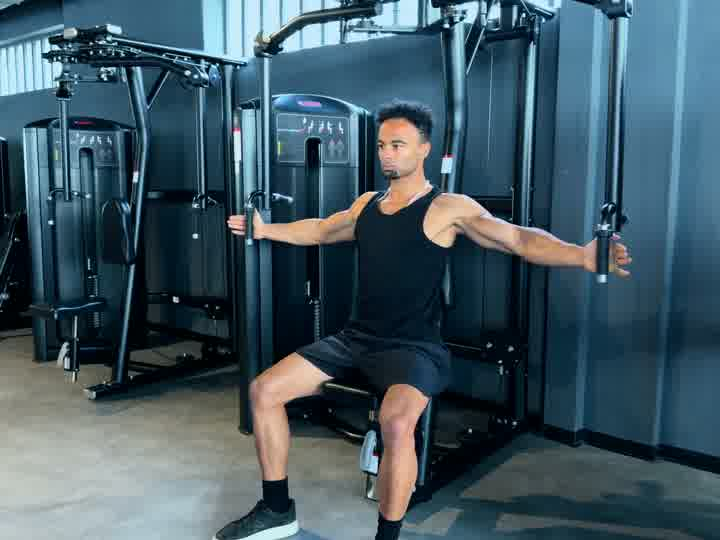
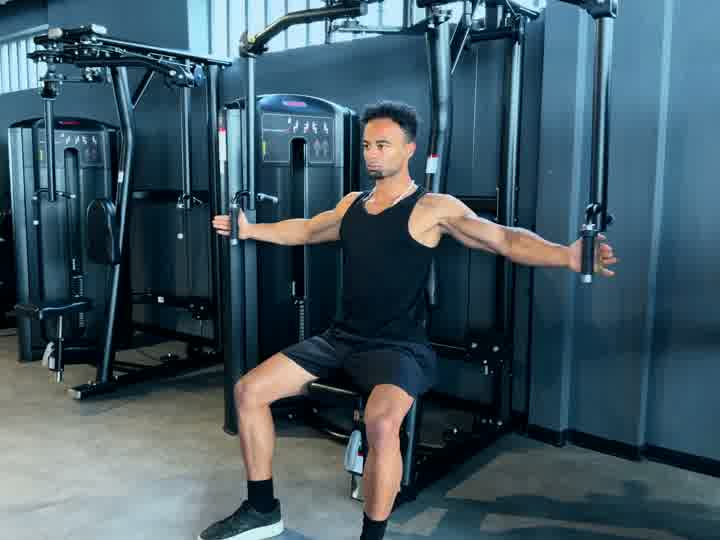
Ship batch 2: multi-view player UX + 60+ new exercise videos
- ExerciseDetail.tsx: PiP swap thumbnail (112×84 desktop, 88×66 mobile)
  in bottom-left of demo, swaps with main video on tap with cross-fade.
  Reuses existing videoRef pattern; new pipVideoRef for the alt clip.
- ExerciseDetail.css: .ed-demo-pip styles (border, hover scale, accent
  border on hover, FRONT/SIDE label badge).
- thumbnails.ts: publicVideoUrlAlt() helper, mirrors gating logic.
- exercises.ts type: videoUrlAlt?: string.
- scripts/sync-video-urls.mjs: separates _side_view.mp4 R2 keys into
  altSlugByBase, populates videoUrlAlt on the matching base exercise,
  reports orphan-alts.
- sync-from-excel.py: forwards videoUrlAlt into public/exercises.json.

61 new thumbnails synced into public/images/thumbnails/exercises/.

diff --git a/react-app/src/pages/ExerciseDetail.tsx b/react-app/src/pages/ExerciseDetail.tsx
@@ -2,7 +2,7 @@ import { useEffect, useRef, useState, useMemo } from 'react';
 import { Link, useParams } from 'react-router-dom';
 import { useTranslation } from 'react-i18next';
 import { getExercises, type Exercise } from '../data/exercises';
-import { exerciseThumb, publicVideoUrl } from '../utils/thumbnails';
+import { exerciseThumb, publicVideoUrl, publicVideoUrlAlt } from '../utils/thumbnails';
 import { Target, Dumbbell, Zap, Volume2, VolumeX, ICON_STROKE } from '../utils/icons';
 import { MuscleTile } from '../components/MuscleTile';
 import SiteNav from '../components/SiteNav';
@@ -51,7 +51,11 @@ export default function ExerciseDetail() {
   const [exercises, setExercises] = useState<Exercise[]>([]);
   const [loading, setLoading] = useState(true);
   const videoRef = useRef<HTMLVideoElement>(null);
+  const pipVideoRef = useRef<HTMLVideoElement>(null);
   const [muted, setMuted] = useState(true);
+  // When `showingAlt` is true the alt-angle clip plays as the main video and
+  // the primary clip moves into the picture-in-picture thumbnail.
+  const [showingAlt, setShowingAlt] = useState(false);
 
   const toggleMuted = () => {
     const v = videoRef.current;
@@ -63,6 +67,17 @@ export default function ExerciseDetail() {
       v.play().catch(() => {});
     }
     setMuted(next);
+  };
+
+  const swapView = () => {
+    setShowingAlt((prev) => !prev);
+    // Reset both videos to time 0 so the swapped views start fresh in sync.
+    requestAnimationFrame(() => {
+      const v = videoRef.current;
+      const p = pipVideoRef.current;
+      if (v) v.play().catch(() => {});
+      if (p) p.play().catch(() => {});
+    });
   };
 
   useEffect(() => {
@@ -158,24 +173,59 @@ export default function ExerciseDetail() {
           <div className="ed-demo">
             {publicVideoUrl(exercise) ? (
               <>
-                <video
-                  ref={videoRef}
-                  src={publicVideoUrl(exercise)}
-                  poster={exerciseThumb(exercise) ?? undefined}
-                  muted={muted}
-                  loop
-                  playsInline
-                  autoPlay
-                  preload="metadata"
-                />
-                <button
-                  type="button"
-                  className="ed-demo-mute"
-                  onClick={toggleMuted}
-                  aria-label={muted ? t('exerciseDetail.unmute', { defaultValue: 'Unmute' }) : t('exerciseDetail.mute', { defaultValue: 'Mute' })}
-                >
-                  {muted ? <VolumeX strokeWidth={ICON_STROKE} /> : <Volume2 strokeWidth={ICON_STROKE} />}
-                </button>
+                {(() => {
+                  const primary = publicVideoUrl(exercise)!;
+                  const alt = publicVideoUrlAlt(exercise);
+                  const mainSrc = showingAlt && alt ? alt : primary;
+                  const pipSrc = showingAlt && alt ? primary : alt;
+                  return (
+                    <>
+                      <video
+                        ref={videoRef}
+                        key={mainSrc}
+                        src={mainSrc}
+                        poster={exerciseThumb(exercise) ?? undefined}
+                        muted={muted}
+                        loop
+                        playsInline
+                        autoPlay
+                        preload="metadata"
+                      />
+                      <button
+                        type="button"
+                        className="ed-demo-mute"
+                        onClick={toggleMuted}
+                        aria-label={muted ? t('exerciseDetail.unmute', { defaultValue: 'Unmute' }) : t('exerciseDetail.mute', { defaultValue: 'Mute' })}
+                      >
+                        {muted ? <VolumeX strokeWidth={ICON_STROKE} /> : <Volume2 strokeWidth={ICON_STROKE} />}
+                      </button>
+                      {pipSrc && (
+                        <button
+                          type="button"
+                          className="ed-demo-pip"
+                          onClick={swapView}
+                          aria-label={t('exerciseDetail.switchView', { defaultValue: 'Switch camera angle' })}
+                        >
+                          <video
+                            ref={pipVideoRef}
+                            key={pipSrc}
+                            src={pipSrc}
+                            muted
+                            loop
+                            playsInline
+                            autoPlay
+                            preload="metadata"
+                          />
+                          <span className="ed-demo-pip-label">
+                            {showingAlt
+                              ? t('exerciseDetail.viewFront', { defaultValue: 'FRONT' })
+                              : t('exerciseDetail.viewSide', { defaultValue: 'SIDE' })}
+                          </span>
+                        </button>
+                      )}
+                    </>
+                  );
+                })()}
               </>
             ) : (
               <MuscleTile muscle={exercise.bodyFocus} size="lg" />

diff --git a/react-app/src/pages/ExerciseDetail.css b/react-app/src/pages/ExerciseDetail.css
@@ -131,6 +131,63 @@
   height: 20px;
 }
 
+/* Picture-in-picture swap thumbnail (alternate camera angle) */
+.ed-demo-pip {
+  position: absolute;
+  bottom: 12px;
+  left: 12px;
+  width: 112px;
+  height: 84px;
+  border-radius: 12px;
+  overflow: hidden;
+  border: 1.5px solid rgba(255, 255, 255, 0.85);
+  background: #000;
+  padding: 0;
+  cursor: pointer;
+  box-shadow: 0 2px 8px rgba(0, 0, 0, 0.4);
+  transition: transform 0.2s ease, border-color 0.2s ease;
+}
+
+.ed-demo-pip video {
+  width: 100%;
+  height: 100%;
+  object-fit: cover;
+  border-radius: 0;
+  pointer-events: none;
+}
+
+.ed-demo-pip:hover {
+  transform: scale(1.04);
+  border-color: var(--accent);
+}
+
+.ed-demo-pip:active {
+  transform: scale(0.97);
+}
+
+.ed-demo-pip-label {
+  position: absolute;
+  bottom: 4px;
+  left: 4px;
+  padding: 2px 6px;
+  font-size: 9px;
+  font-weight: 700;
+  letter-spacing: 0.8px;
+  color: #fff;
+  background: rgba(0, 0, 0, 0.65);
+  border-radius: 4px;
+  pointer-events: none;
+}
+
+@media (max-width: 480px) {
+  .ed-demo-pip {
+    width: 88px;
+    height: 66px;
+    bottom: 8px;
+    left: 8px;
+  }
+}
+
 /* ── Layout ── */
 .ed-layout {
   display: grid;

diff --git a/react-app/src/utils/thumbnails.ts b/react-app/src/utils/thumbnails.ts
@@ -17,6 +17,14 @@ export function publicVideoUrl(ex: Exercise): string | undefined {
   return isMediaHidden(ex.cat, ex.equipment) ? undefined : ex.videoUrl;
 }
 
+/**
+ * Alternate-angle (e.g. "_side_view") clip URL — same hidden-media rules
+ * as the primary video. Returns undefined when the exercise has no alt.
+ */
+export function publicVideoUrlAlt(ex: Exercise): string | undefined {
+  return isMediaHidden(ex.cat, ex.equipment) ? undefined : ex.videoUrlAlt;
+}
+
 export function publicAnimationUrl(ex: Exercise): string | undefined {
   return ex.animationUrl || undefined;
 }

diff --git a/react-app/src/data/exercises.ts b/react-app/src/data/exercises.ts
@@ -15,6 +15,8 @@ export interface Exercise {
   emoji: string;
   setupNotes: string;
   videoUrl?: string;  // R2-hosted demo clip, present for ~264 exercises
+  /** Optional alternate-angle video (e.g. side view). Same base slug + `_side_view`. */
+  videoUrlAlt?: string;
   animationUrl?: string;  // Optional 3D/2D animation alternative (gym/equipment only)
   parentId?: string;    // L/R variants inherit parent's media (thumb + video)
   parentName?: string;

diff --git a/sync-from-excel.py b/sync-from-excel.py
@@ -86,6 +86,8 @@ def build_exercises():
         }
         if ex.get("videoUrl"):
             out["videoUrl"] = ex["videoUrl"]
+        if ex.get("videoUrlAlt"):
+            out["videoUrlAlt"] = ex["videoUrlAlt"]
         # Carry parentId/parentName so the landing site can resolve variant → parent
         # (for thumbnail fallback — L/R variants share parent's thumb).
         # parentId is re-slugged to match landing's id scheme (slug-based, not gym_*/home_*).
